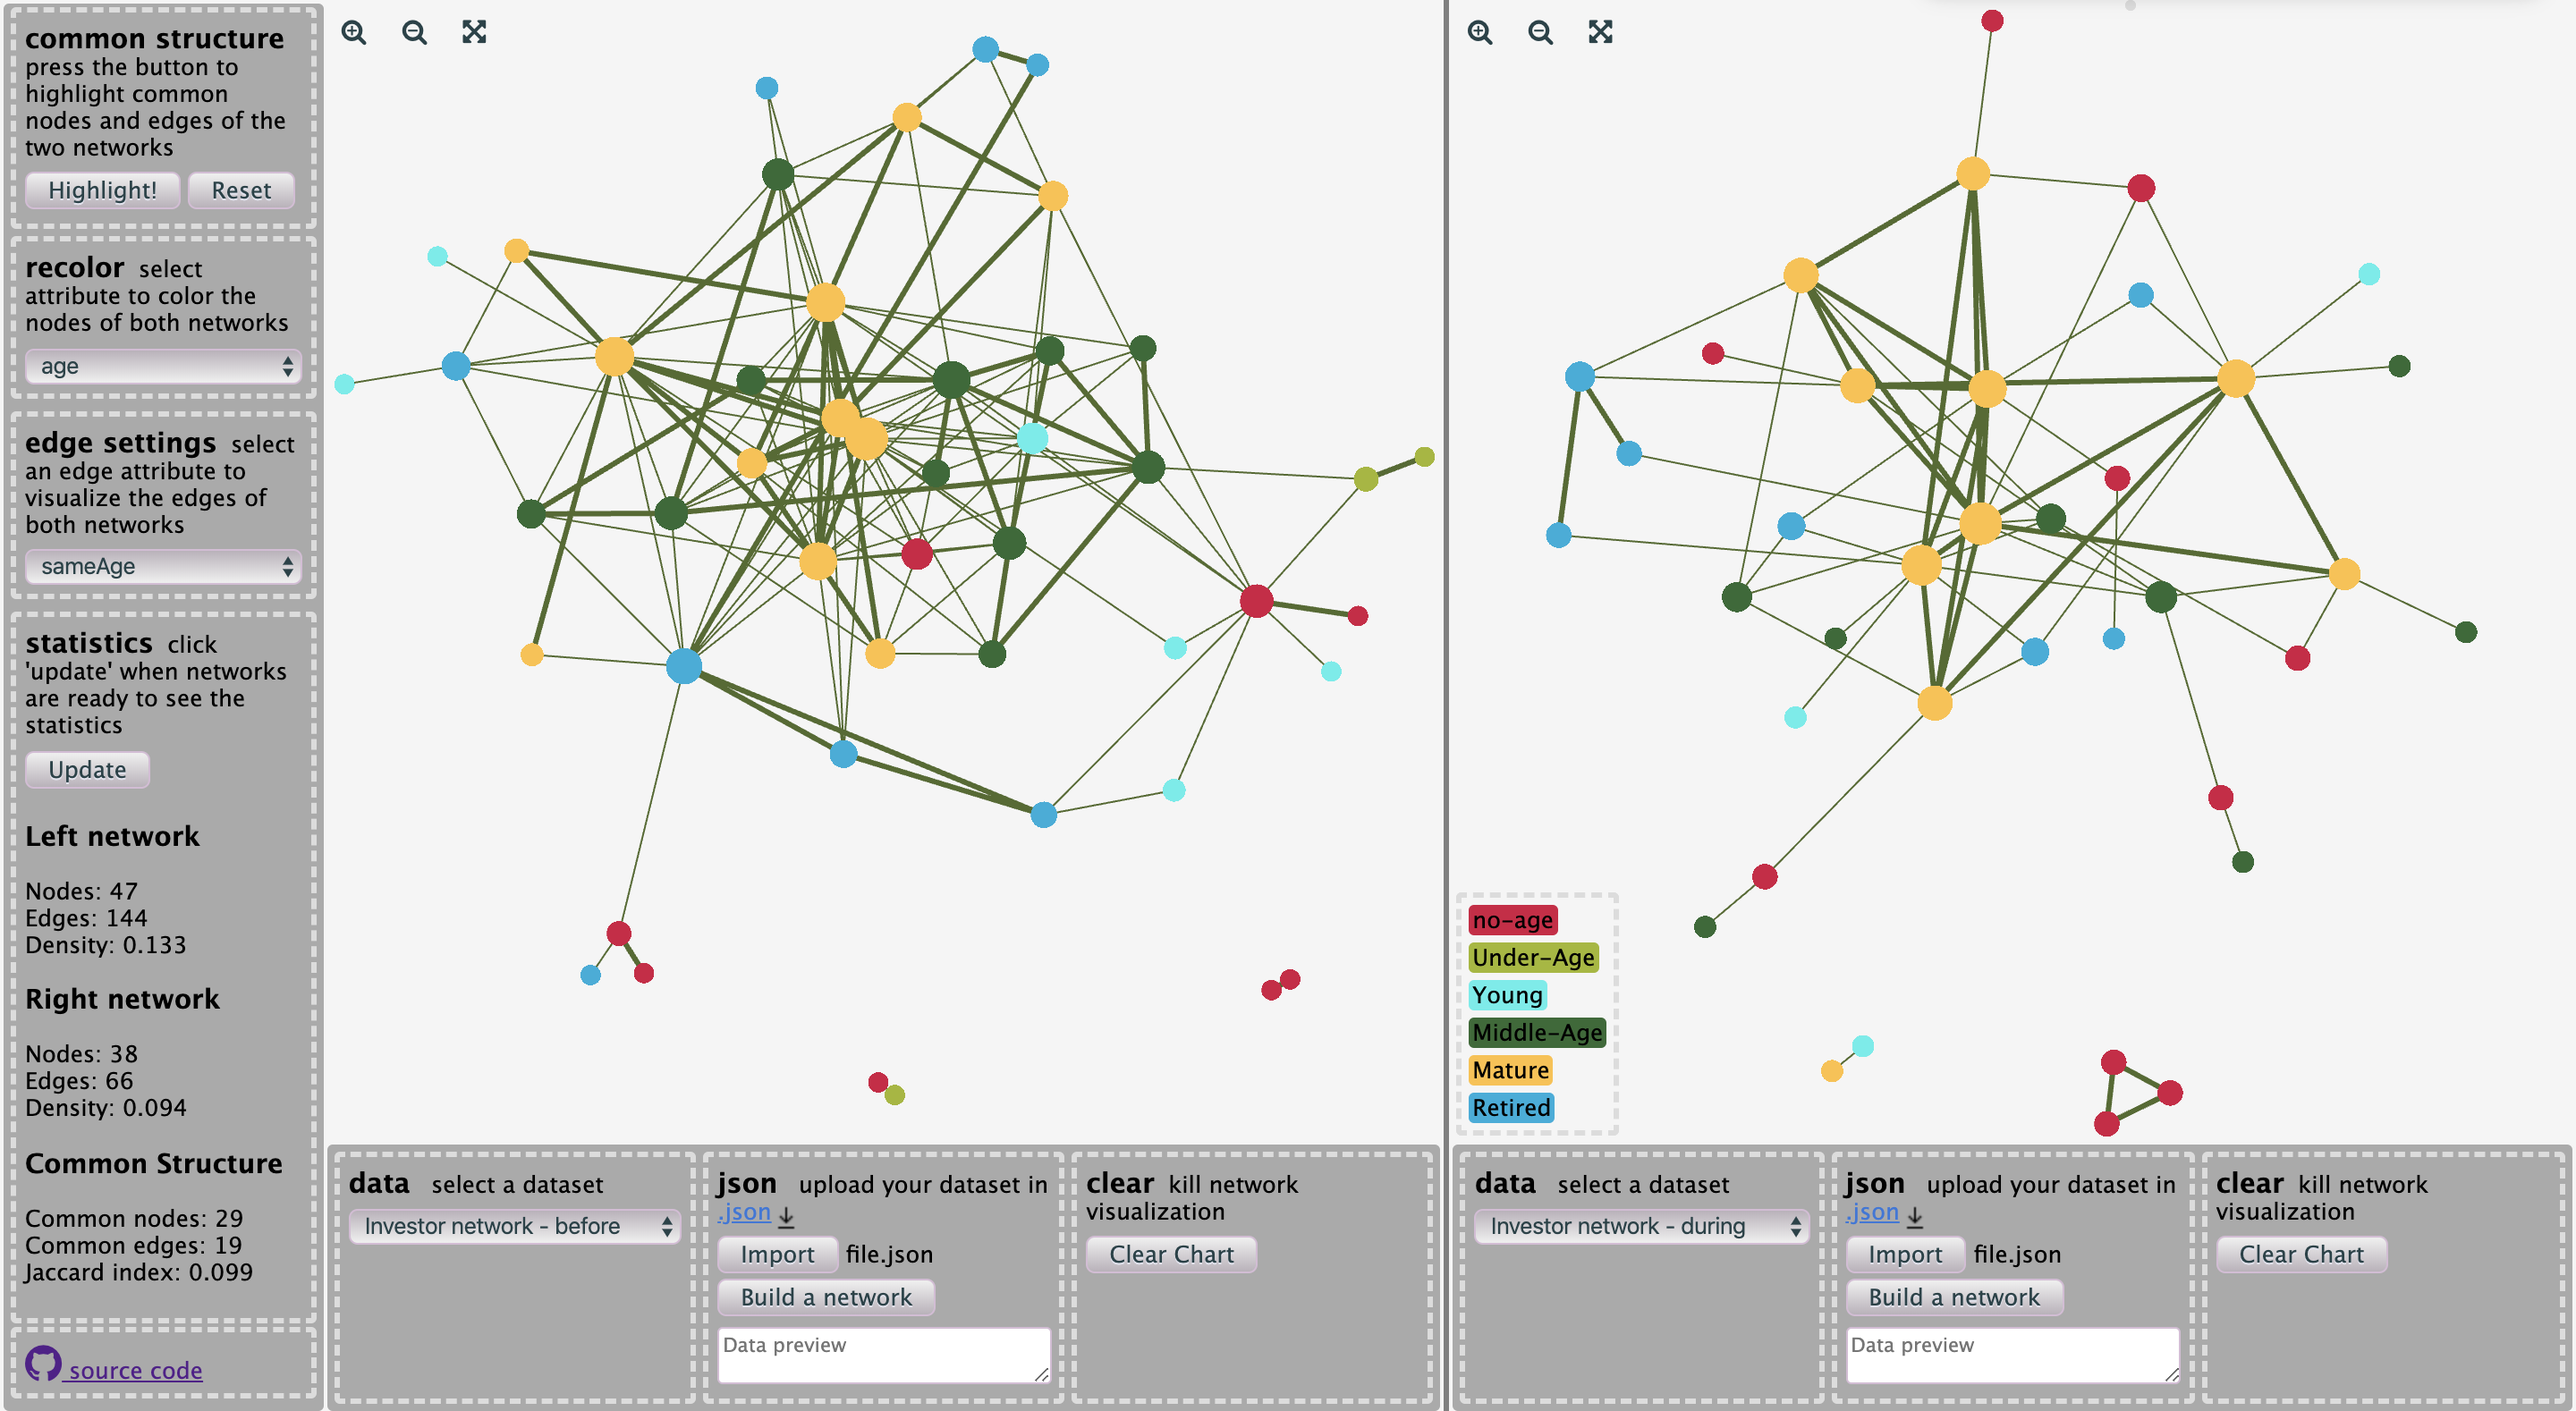
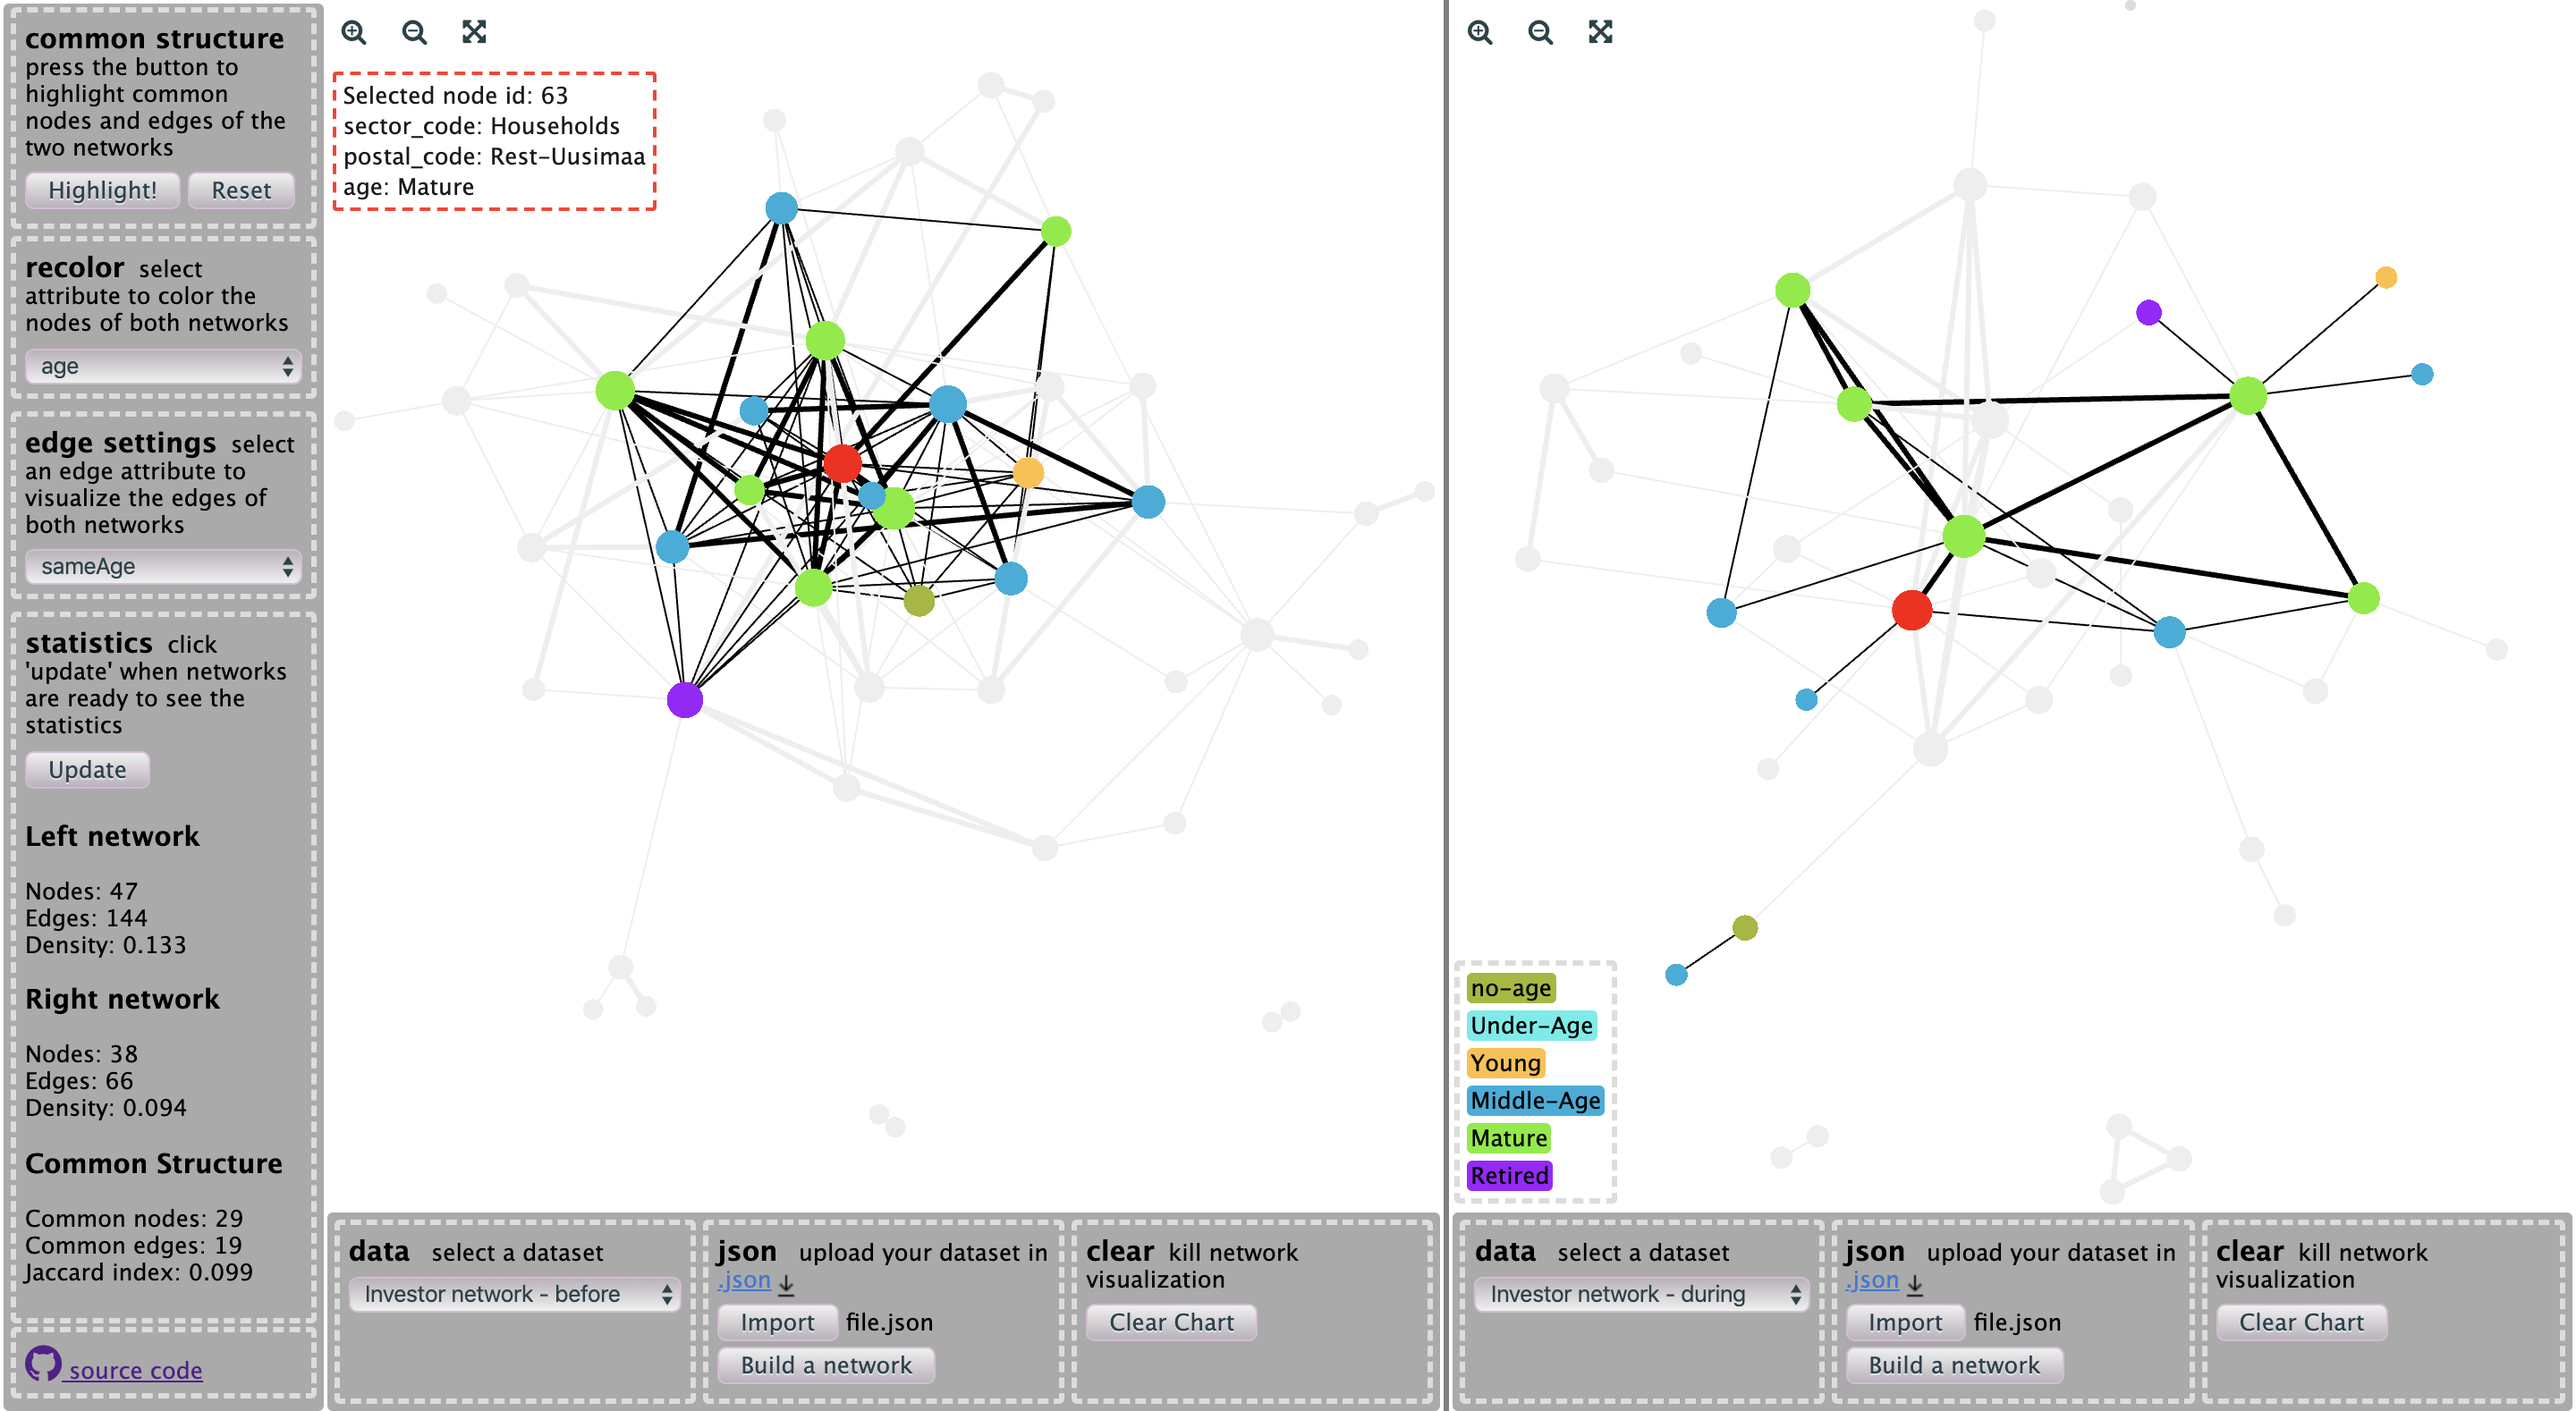
fixed infobox logic and new preview

diff --git a/public/js/public.js b/public/js/public.js
@@ -175,6 +175,7 @@ function refreshGraph(name, side, json, graph) {
                     console.log(attributes_to_label);
                     if ($(info_box_id).length === 0) {
                         $("<div id='" + container + "_node_info' class='info_box' title='click to remove'>").appendTo(container_id);
+                        $("<p>Selected node id: " + e.data.node.id + "</p>").appendTo(info_box_id);
                         for (let i = 0; i < attributes_to_label.length; i++) {
                             $('<p>' + attributes_to_label[i] + ": " + eval('e.data.node.' + attributes_to_label[i]) + '</p>').appendTo(info_box_id);
                         }
@@ -184,6 +185,7 @@ function refreshGraph(name, side, json, graph) {
                     }
                     else {
                         $(info_box_id + ' p').remove();
+                        $("<p>Selected node id: " + e.data.node.id + "</p>").appendTo(info_box_id);
                         for (let i = 0; i < attributes_to_label.length; i++) {
                             $('<p>' + attributes_to_label[i] + ": " + eval('e.data.node.' + attributes_to_label[i]) + '</p>').appendTo(info_box_id);
                         }
@@ -193,9 +195,11 @@ function refreshGraph(name, side, json, graph) {
 
                     if (container == "left_svg") {
                         s = sigma.instances(window.left_id);
+                        $("#right_svg_node_info").remove();
                         another_net = sigma.instances(window.right_id);
                     } else if (container == "right_svg") {
                         s = sigma.instances(window.right_id);
+                        $("#left_svg_node_info").remove();
                         another_net = sigma.instances(window.left_id);
                     }
                     var nodeId = e.data.node.id,
@@ -392,13 +396,15 @@ function refreshGraph(name, side, json, graph) {
         ////////// NEIGHBORS AND INFOBOXES ON DOUBLE CLICK /////////////////
         s.bind('doubleClickNode', e => {
 
-            ////////// INFOBOXES ///////////
+            // INFOBOXES
             var container = e.data.renderer.container.id;
             var container_id = "#" + container;
             var info_box_id = container_id + '_node_info';
-
+            console.log(e);
+            console.log(attributes_to_label);
             if ($(info_box_id).length === 0) {
                 $("<div id='" + container + "_node_info' class='info_box' title='click to remove'>").appendTo(container_id);
+                $("<p>Selected node id: " + e.data.node.id + "</p>").appendTo(info_box_id);
                 for (let i = 0; i < attributes_to_label.length; i++) {
                     $('<p>' + attributes_to_label[i] + ": " + eval('e.data.node.' + attributes_to_label[i]) + '</p>').appendTo(info_box_id);
                 }
@@ -408,6 +414,7 @@ function refreshGraph(name, side, json, graph) {
             }
             else {
                 $(info_box_id + ' p').remove();
+                $("<p>Selected node id: " + e.data.node.id + "</p>").appendTo(info_box_id);
                 for (let i = 0; i < attributes_to_label.length; i++) {
                     $('<p>' + attributes_to_label[i] + ": " + eval('e.data.node.' + attributes_to_label[i]) + '</p>').appendTo(info_box_id);
                 }
@@ -417,9 +424,11 @@ function refreshGraph(name, side, json, graph) {
 
             if (container == "left_svg") {
                 s = sigma.instances(window.left_id);
+                $("#right_svg_node_info").remove();
                 another_net = sigma.instances(window.right_id);
             } else if (container == "right_svg") {
                 s = sigma.instances(window.right_id);
+                $("#left_svg_node_info").remove();
                 another_net = sigma.instances(window.left_id);
             }
             var nodeId = e.data.node.id,
@@ -776,7 +785,7 @@ $('#right_clear').on('click', () => {
 function recolor(index) {
     $('.color_label').remove();
 
-    var colors = ['#d41243', '#a2b825', '#4deeea', '#306B34', '#ffc03d', '#00aedb', '#B3001B', '#74ee15', '#a200ff', '#52B788', '#f000ff', '#EE6352', '#56EEF4', '#8E4162', '#9BF3F0', '#251351', '#001eff', '#f47835', '#FF4B3E', '#900C3F', '#5438DC'];
+    var colors = ['#a2b825', '#4deeea', '#ffc03d', '#00aedb', '#74ee15', '#a200ff', '#52B788', '#d41243', '#f000ff', '#EE6352', '#306B34', '#56EEF4', '#8E4162', '#9BF3F0', '#251351', '#001eff', '#f47835', '#FF4B3E', '#900C3F', '#5438DC', '#B3001B'];
     var x = document.getElementById("recolor");
     var selection = x.options[index].text;
 

diff --git a/public/css/main.css b/public/css/main.css
@@ -231,7 +231,7 @@ input[type="file"] {
     border: 2px;
     border-style: dashed;
     border-radius: 2px;
-    border-color: gainsboro;
+    border-color: #FF0000;
     margin: 5px;
     padding: 3px;
     position: relative;
